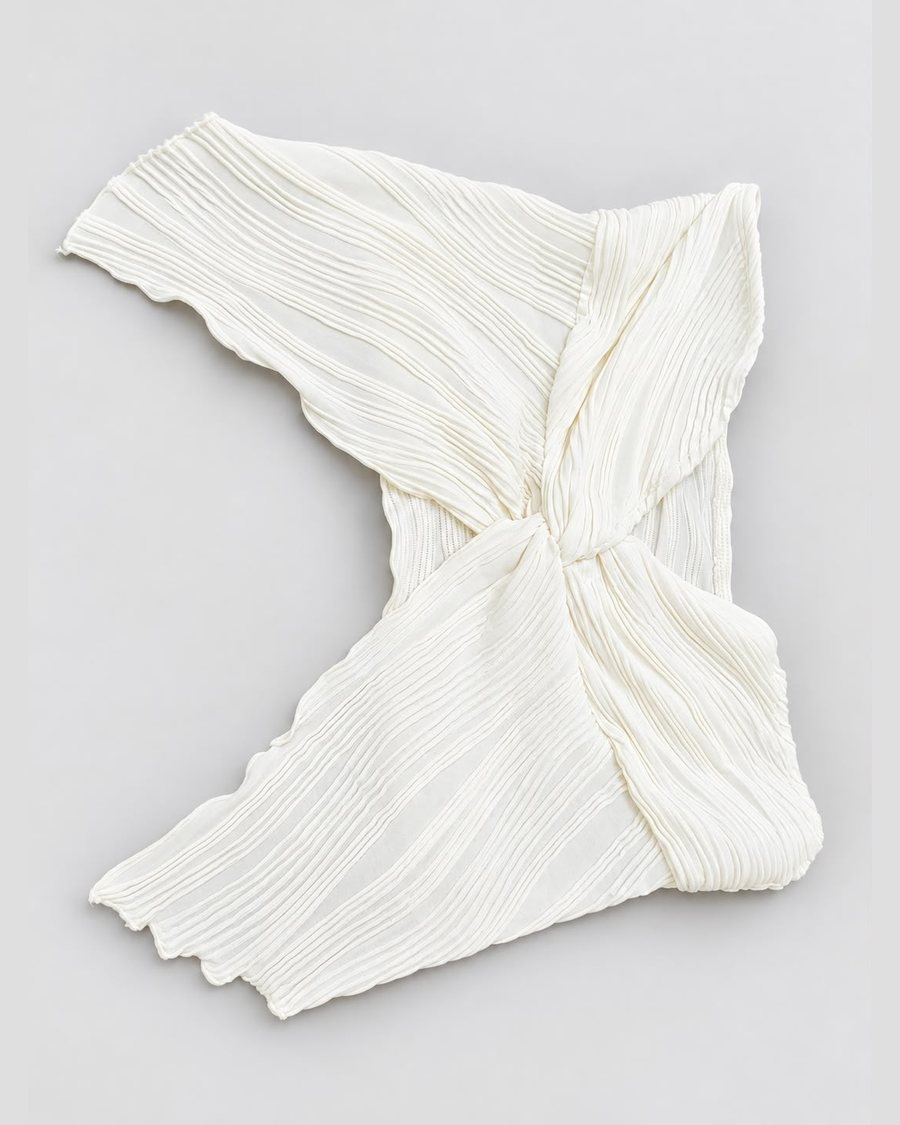
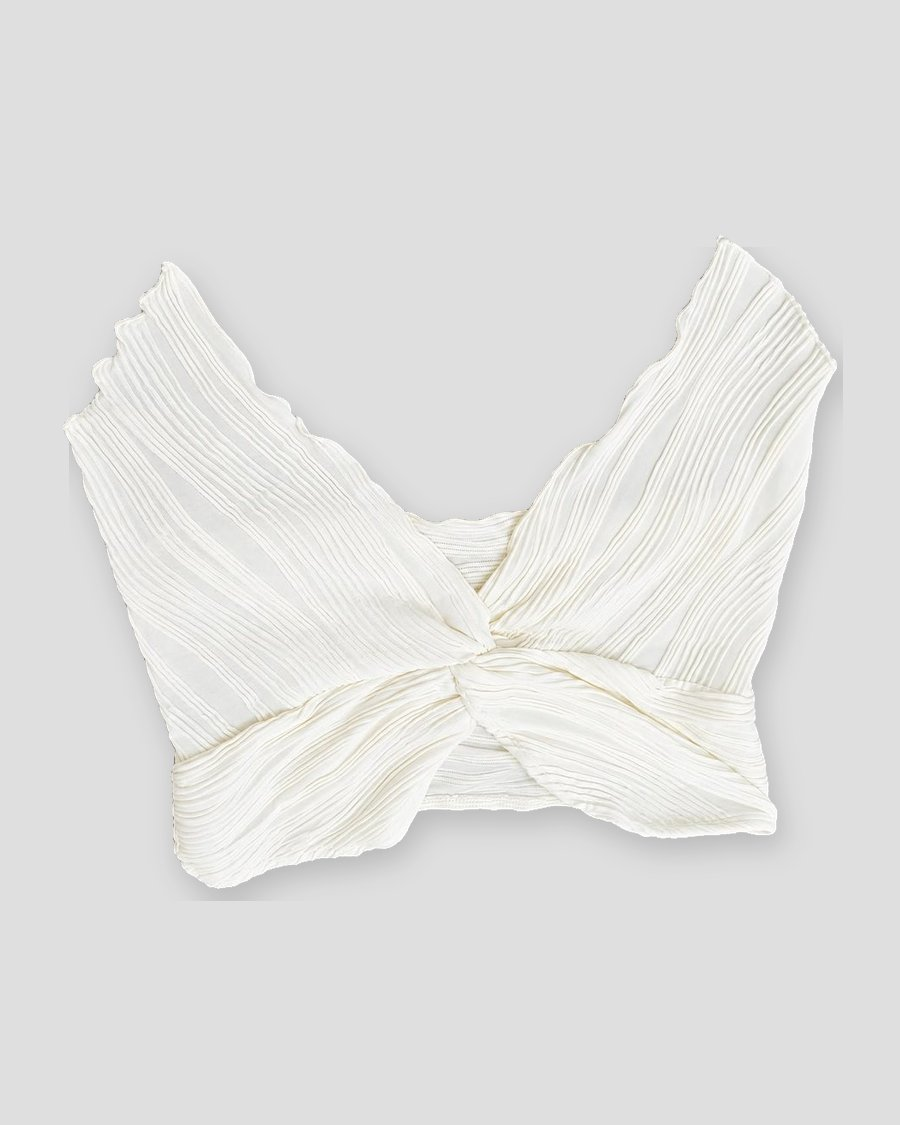
Corregir top plisado, prenda repetida y pollera de encaje
- Gira el top plisado blanco para que quede derecho
- Une "Musculosa blanca" y "Top blanco espalda cruzada", que eran la
  misma prenda, en un solo producto con tres fotos
- Pasa la pollera de encaje con volados (estaba como top) a Conjuntos y más

Claude-Session: https://claude.ai/code/session_01CJB4qdqWGG5BmjLBtqRyZN

Changed region(s): [[0.0622, 0.0933, 0.9333, 0.9333], [0.2178, 0.56, 0.2489, 0.5911]]

diff --git a/index.html b/index.html
@@ -656,10 +656,8 @@
             imagenes: ['img/remeras/remera-negra-basica-2.jpg', 'img/remeras/remera-negra-basica-1.jpg'] },
           { nombre: 'Saquito tejido con botones', precio: 27900, insignia: 'Nuevo',
             imagenes: ['img/remeras/saquito-tejido-con-botones-2.jpg', 'img/remeras/saquito-tejido-con-botones-1.jpg'] },
-          { nombre: 'Musculosa blanca', precio: 10900,
-            imagenes: ['img/remeras/musculosa-blanca-1.jpg'] },
           { nombre: 'Top blanco espalda cruzada', precio: 14900,
-            imagenes: ['img/remeras/top-blanco-espalda-cruzada-1.jpg', 'img/remeras/top-blanco-espalda-cruzada-2.jpg'] },
+            imagenes: ['img/remeras/top-blanco-espalda-cruzada-1.jpg', 'img/remeras/top-blanco-espalda-cruzada-2.jpg', 'img/remeras/top-blanco-espalda-cruzada-3.jpg'] },
           { nombre: "Remera negra con transparencias", precio: 14900, insignia: 'Nuevo',
             imagenes: ['img/remeras/remera-negra-con-transparencias-1.jpg'] },
           { nombre: "Blusa marrón con volados", precio: 18900, insignia: 'Nuevo',
@@ -670,8 +668,6 @@
             imagenes: ['img/remeras/body-never-mind-gris-1.jpg'] },
           { nombre: "Remera blanca básica", precio: 12900, insignia: 'Nuevo',
             imagenes: ['img/remeras/remera-blanca-basica-1.jpg'] },
-          { nombre: "Top de encaje con volados", precio: 19900, insignia: 'Nuevo',
-            imagenes: ['img/remeras/top-de-encaje-con-volados-1.jpg'] },
           { nombre: "Musculosa de red blanca", precio: 11900, insignia: 'Nuevo',
             imagenes: ['img/remeras/musculosa-de-red-blanca-1.jpg', 'img/remeras/musculosa-de-red-blanca-2.jpg'] },
           { nombre: "Musculosa de lentejuelas dorada", precio: 24900, insignia: 'Nuevo',
@@ -919,7 +915,9 @@
           { nombre: "Conjunto California 23", precio: 34900, insignia: 'Nuevo',
             imagenes: ['img/conjuntos/conjunto-california-23-1.jpg'] },
           { nombre: "Pollera estampada con ondas", precio: 22900, insignia: 'Nuevo',
-            imagenes: ['img/conjuntos/pollera-estampada-con-ondas-1.jpg'] }
+            imagenes: ['img/conjuntos/pollera-estampada-con-ondas-1.jpg'] },
+          { nombre: "Pollera de encaje con volados", precio: 19900, insignia: 'Nuevo',
+            imagenes: ['img/conjuntos/pollera-de-encaje-con-volados-1.jpg'] }
         ]
       },
       {
